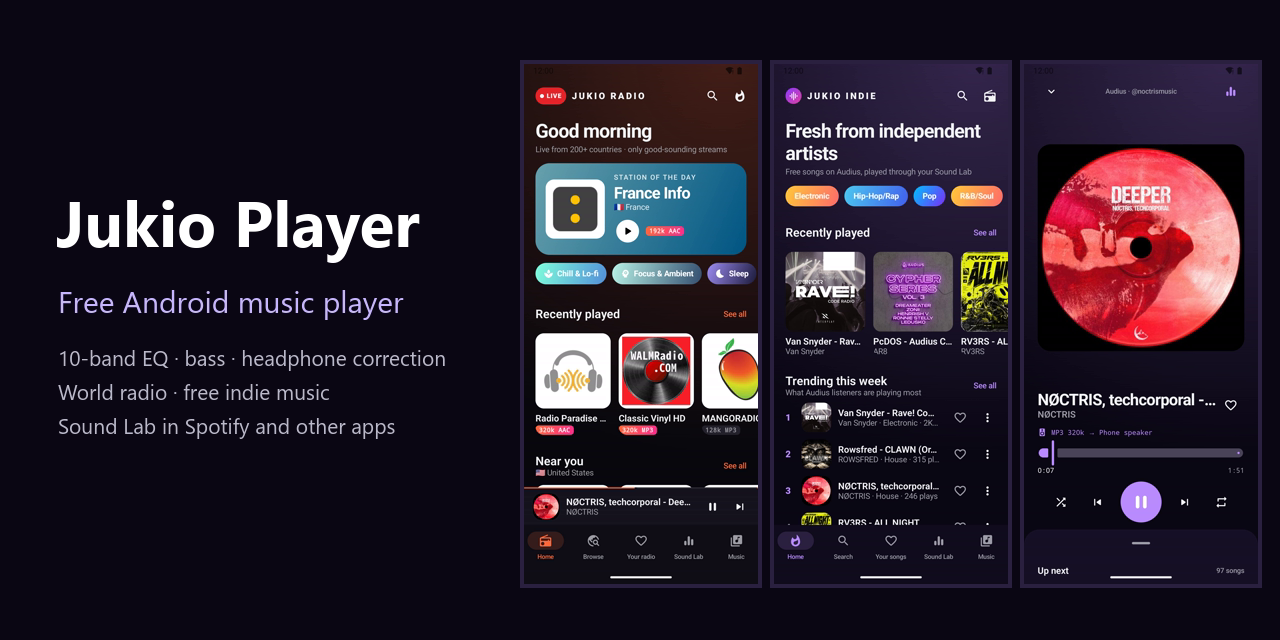
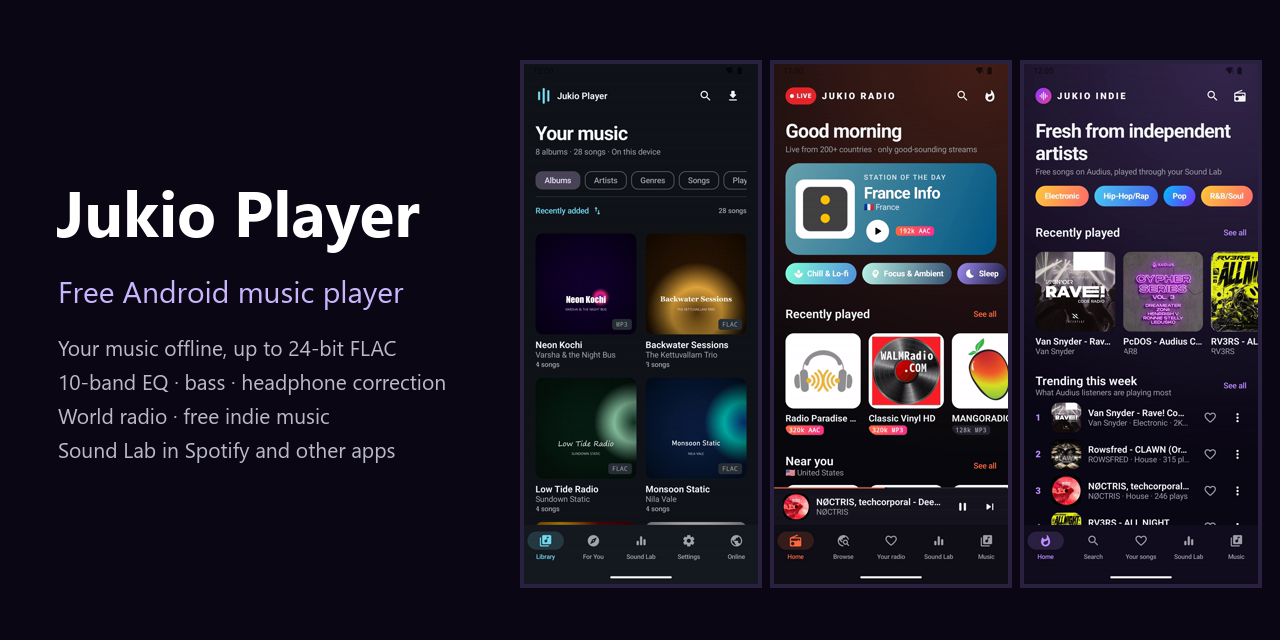
Download page: your offline music first, with library, album and Now Playing screenshots

diff --git a/README.md b/README.md
@@ -3,7 +3,7 @@
 # Jukio Player
 
 **A free Android music player that's all about sound.**
-Your own music, live radio from 200+ countries and free songs from independent artists,
+Your own music offline, live radio from 200+ countries and free songs from independent artists,
 all shaped by **Sound Lab**: a 10-band EQ, adaptive bass, headphone correction and more.
 
 [**⬇ Download the latest APK**](https://github.com/Voxsama/jukio-player-releases/releases/latest)
@@ -16,38 +16,53 @@ all shaped by **Sound Lab**: a 10-band EQ, adaptive bass, headphone correction a
 </div>
 
 <p align="center">
-  <img src="screenshots/1-radio.png" width="240" alt="Radio home: station of the day, moods, recently played">
-  <img src="screenshots/2-audius.png" width="240" alt="Free indie music from Audius: genres, trending songs">
-  <img src="screenshots/3-nowplaying.png" width="240" alt="Now playing an Audius song at 320 kbps">
+  <img src="screenshots/o1-library.png" width="240" alt="Your music library: albums with covers and format badges">
+  <img src="screenshots/4-soundlab.png" width="240" alt="Sound Lab: equalizer curve, and Sound Lab in other apps">
+  <img src="screenshots/1-radio.png" width="240" alt="Radio: station of the day, moods, recently played">
 </p>
+
+## 🎵 Your music, offline
+
 <p align="center">
-  <img src="screenshots/4-soundlab.png" width="240" alt="Sound Lab: equalizer curve and Sound Lab in other apps">
+  <img src="screenshots/o2-album.png" width="240" alt="Album page with play and shuffle">
+  <img src="screenshots/o3-nowplaying.png" width="240" alt="Now playing a 24-bit 96 kHz FLAC, showing source and output">
+  <img src="screenshots/o4-retro.png" width="240" alt="The Retro theme: the cover spins like a vinyl record">
+</p>
+
+- **Finds the music on your phone by itself**: albums, artists, genres, songs and favourites, with covers. No internet needed.
+- **Plays hi-res files**: FLAC up to 24-bit / 192 kHz, plus MP3, AAC, Ogg and WAV. Now Playing shows the exact source format and where the sound goes (speaker, headphones, Bluetooth or a USB DAC).
+- **Volume leveling** so every song plays at the same loudness, **crossfade** (0–12 s) and **gapless** albums
+- **For You** mixes built from what you play and favourite, worked out on your phone
+- **Themes** change the whole look, from Midnight and Aero glass to Retro vinyl, or make your own and share it
+- Spotify-style gestures: swipe the mini player to skip, swipe down to close Now Playing, an "Up next" queue
+
+## 🎚 Sound Lab
+
+- **10-band equalizer** that hits the exact values you set, with presets or fine-tuning in 0.1 dB steps
+- **Adaptive Bass** in three styles (Clean, Warm, Subwoofer), plus **Punch** for harder kick drums and **Restore** for deeper bass on small speakers
+- **Headphone correction**: pick your headphones or earbuds and they're tuned to neutral, using measurements from [AutoEq](https://github.com/jaakkopasanen/AutoEq)
+- **Depth**: Clarity, Fullness, stereo Width and room Ambience, plus a limiter that keeps everything clean
+- **Remembers settings for each device**: your earbuds, your car and the phone speaker each keep their own sound, switching automatically when you connect them
+- **Works in other apps too**: your EQ, headphone correction, bass and limiter in Spotify, YouTube Music and other players (Android 9+)
+
+## 📻 Radio
+
+<p align="center">
   <img src="screenshots/5-radio-player.png" width="240" alt="Live radio player showing the real stream quality">
   <img src="screenshots/6-browse.png" width="240" alt="Browse radio by genre, mood, decade, country and language">
 </p>
 
-## What's inside
-
-### 🎚 Sound Lab
-- **10-band equalizer** that hits the exact values you set, with presets or fine-tuning in 0.1 dB steps
-- **Adaptive Bass** in three styles (Clean, Warm, Subwoofer), plus **Punch** for harder kick drums and **Restore** for deeper bass on small speakers
-- **Headphone correction**: pick your headphones or earbuds and they're tuned to neutral, using measurements from [AutoEq](https://github.com/jaakkopasanen/AutoEq)
-- **Depth**: Clarity, Fullness, stereo Width and room Ambience
-- **Remembers settings for each device**: your earbuds, your car and the phone speaker each keep their own sound, switching automatically when you connect them
-- **Works in other apps too**: your EQ, headphone correction, bass and limiter in Spotify, YouTube Music and other players (Android 9+)
-
-### 🎵 Your music
-- Finds the music on your phone automatically: albums, artists, genres, favourites
-- **For You** mixes from what you play, all worked out on your phone
-- **Volume leveling** so every song plays equally loud, **crossfade** (0–12 s) and gapless albums
-- Themes, from Midnight and Aero glass to Retro vinyl, or make and share your own
-
-### 📻 Radio
 - **Live stations from 200+ countries**, sorted into genres, moods, decades, news & talk, countries and languages
 - **Only good-sounding streams** (MP3 128k+, AAC 96k+); each station shows its quality, and Jukio checks the real stream when it plays
 - Station of the day, stations near you, a new country every day, favourites
 
-### 🔥 Free indie music (Audius)
+## 🔥 Free indie music
+
+<p align="center">
+  <img src="screenshots/2-audius.png" width="240" alt="Free indie music from Audius: genres and trending songs">
+  <img src="screenshots/3-nowplaying.png" width="240" alt="Now playing an Audius song at 320 kbps">
+</p>
+
 - Songs uploaded by independent artists on [Audius](https://audius.co), streamed at **320 kbps**
 - Trending charts, genres, rising artists, search and artist pages that link back to the artist
 
@@ -70,5 +85,7 @@ measurements you choose.
 - Radio stations: [Radio Browser](https://www.radio-browser.info), the free community directory
 - Independent music: [Audius](https://audius.co)
 - Headphone measurements: [AutoEq](https://github.com/jaakkopasanen/AutoEq) (MIT)
+
+<sub>The albums in the library screenshots are made up for these pictures; any resemblance to real releases is accidental.</sub>
 
 **Found a bug or have an idea?** Open an [issue](https://github.com/Voxsama/jukio-player-releases/issues).
